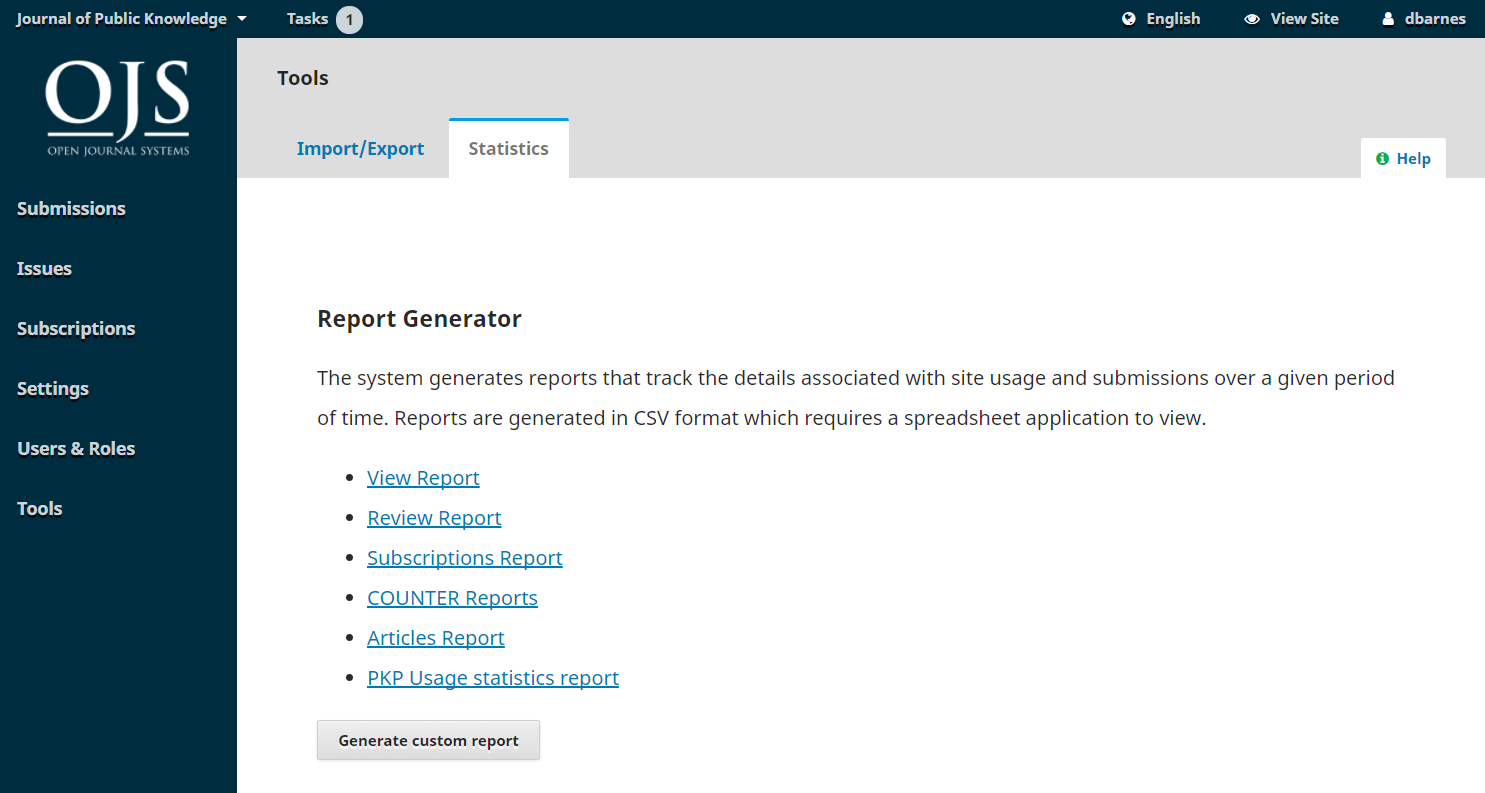
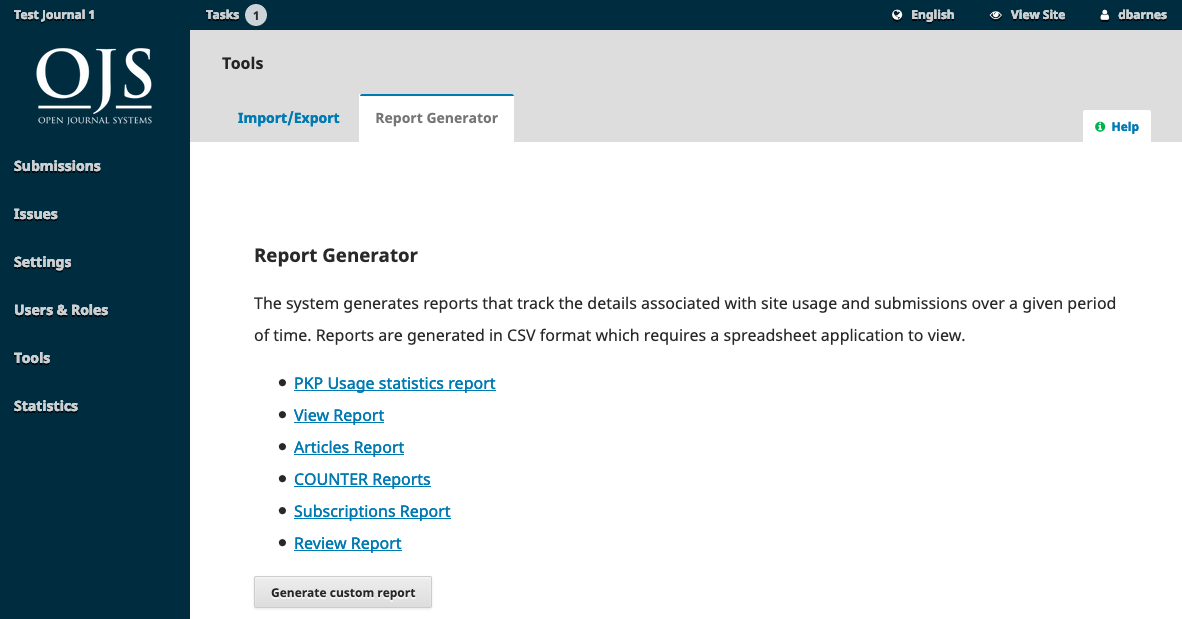
Update to tools section for 3.1.2, including new screenshots

diff --git a/learning-ojs/en/tools.md b/learning-ojs/en/tools.md
@@ -4,7 +4,7 @@ The Tools section can be accessed from the left sidebar menu.
 
 ![](./assets/learning-ojs3.1-jm-users-tools.PNG)
 
-Tools consist of an Import/Export tab and a Statistics tab.
+Tools consist of an Import/Export tab and a Report Generator tab (called Statistics in OJS 3.1.1 and earlier).
 
 ## Import/Export
 
@@ -12,26 +12,27 @@ Import/Export allows you to easily get data out of your OJS journal and get data
 
 ![](./assets/learning-ojs3.1-jm-users-tools-import.PNG)
 
-Some of the tools allow you to export to third-party systems, such as PubMed or the DOAJ. Others allow you to import or export user or article data. 
+Some of the tools allow you to export to third-party systems, such as PubMed or the DOAJ. Others allow you to import or export user or article data.
 
 For detailed instructions on importing and exporting see the [Administrator's Guide](https://docs.pkp.sfu.ca/admin-guide/en/data-import-and-export).
 
 For more information on the Crossref XML Export Plugin, see the [PKP Crossref Guide](https://docs.pkp.sfu.ca/crossref-ojs-manual/en/).
 
-## Statistics
+## Report Generator
 
-The Statistics page provides access to a variety of reports from your journal.
+The Report Generator page provides access to a variety of reports from your journal.
 
 ![](./assets/learning-ojs3.1-jm-users-tools-stats.PNG)
 
 The system generates reports that track the details associated with site usage and submissions over a given period of time. Reports are generated in CSV format which requires a spreadsheet application to view.
 
-- **View Report**: Provides a report on galley and abstract views by readers \(i.e., how many times a PDF for an article has been viewed\).
-- **Review Report**: Provides a spreadsheet of all review activity.
-- **Subscriptions Report**: Provides a spreadsheet of subscription activity.
-- **COUNTER Reports**: Provides COUNTER data.
-- **Articles Report**: Provides a spreadsheet of all published articles.
 - **PKP Usage Statistics Report**: Provides basic usage statistics for your journal.
+- **View Report**: Provides a report on galley and abstract views by readers \(i.e., how many times a PDF for an article has been viewed\).
+- **Articles Report**: Provides a spreadsheet of all published articles.
+- **COUNTER Reports**: Provides COUNTER data.
+- **Subscriptions Report**: Provides a spreadsheet of subscription activity.
+- **Review Report**: Provides a spreadsheet of all review activity.
+
 
 ### Generate Custom Report
 

diff --git a/learning-ojs/en/SUMMARY.md b/learning-ojs/en/SUMMARY.md
@@ -51,7 +51,7 @@
   * [Site Access Options](./users-and-roles.md#site-access-options)
 * [Chapter 11: Tools](./tools.md)
   * [Import &amp; Export](./tools.md#importexport)
-  * [Statistics](./tools.md#statistics)
+  * [Report Generator](./tools.md#report-generator)
 * [Chapter 12: Subscriptions](./subscriptions.md)
   * [Subscription Policies](./subscriptions.md#subscription-policies)
   * [Subscription Types](./subscriptions.md#subscription-types)
